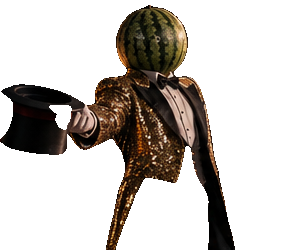
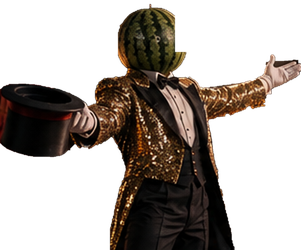
Show /types characters in full; update four character images
The character images had a bottom fade mask that hid the lower 20% of
each cutout (Angry-Eater's torso, Obsessed-Eater's coat, Innovative-
Eater's legs). Removed it; the images are object-contain in a box that
keeps the PNG's shape, capped at native width.

Adds the corrected angry-eater.png (full axe and body) and re-copied
extraordinary-, obsessed- and innovative-eater.png.

diff --git a/components/CineBand.tsx b/components/CineBand.tsx
@@ -86,8 +86,9 @@ export default function CineBand({ family, types, intro }: { family: Family; typ
                 sizes="(min-width: 1024px) 240px, (min-width: 640px) 33vw, 50vw"
                 // The first band is on screen at load; on phones its first character is the LCP.
                 loading={intro ? "eager" : "lazy"}
-                // The cutouts stop at the waist; fade that hard edge into the floor.
-                className="relative h-auto w-full object-contain mask-[linear-gradient(to_bottom,#000_80%,transparent)]"
+                // Shown whole: no mask or crop. Parts reach every edge (the Angry-Eater's axe touches the top),
+                // the box keeps the PNG's ~6:5 shape via width/height, and max-w-[300px] above caps it at native size.
+                className="relative h-auto w-full object-contain"
               />
             </div>
             <p className="mt-3 text-base font-semibold tracking-[-0.01em] text-balance text-[color:var(--glow)] sm:text-lg">{type.name}</p>
